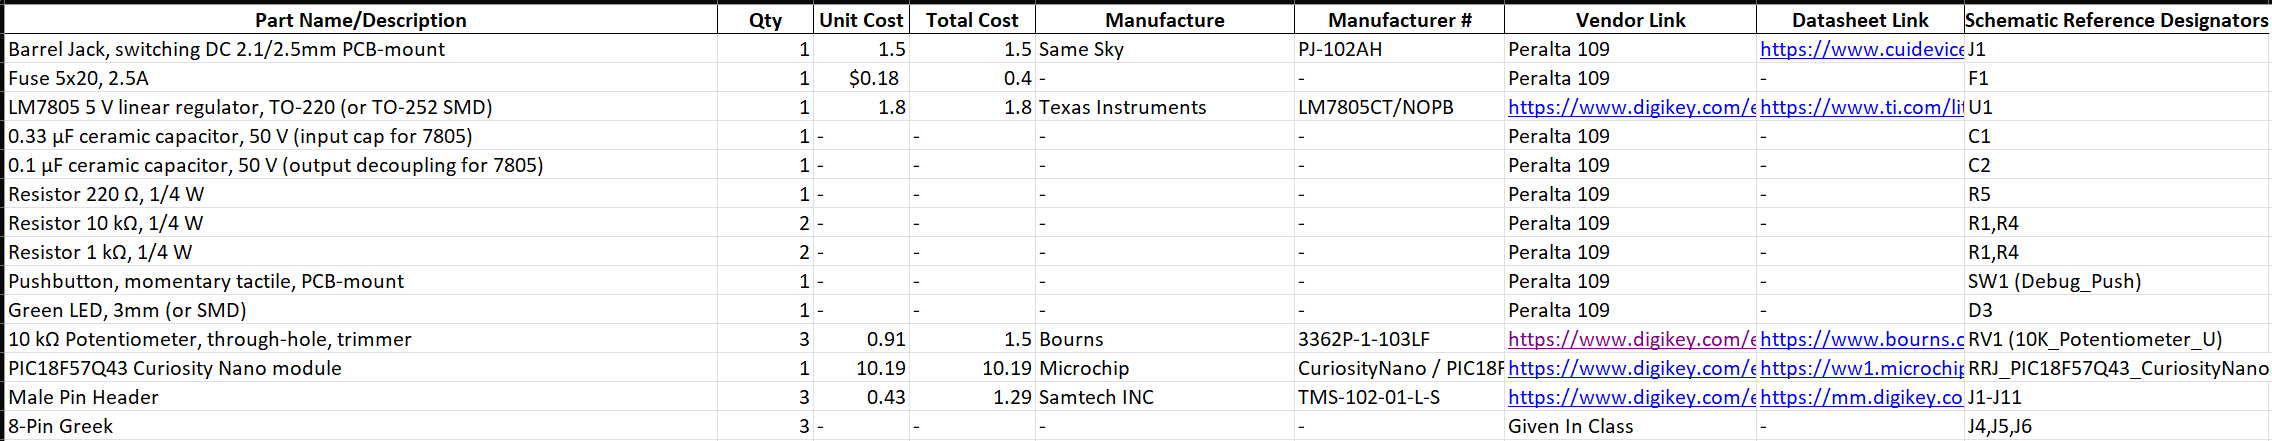
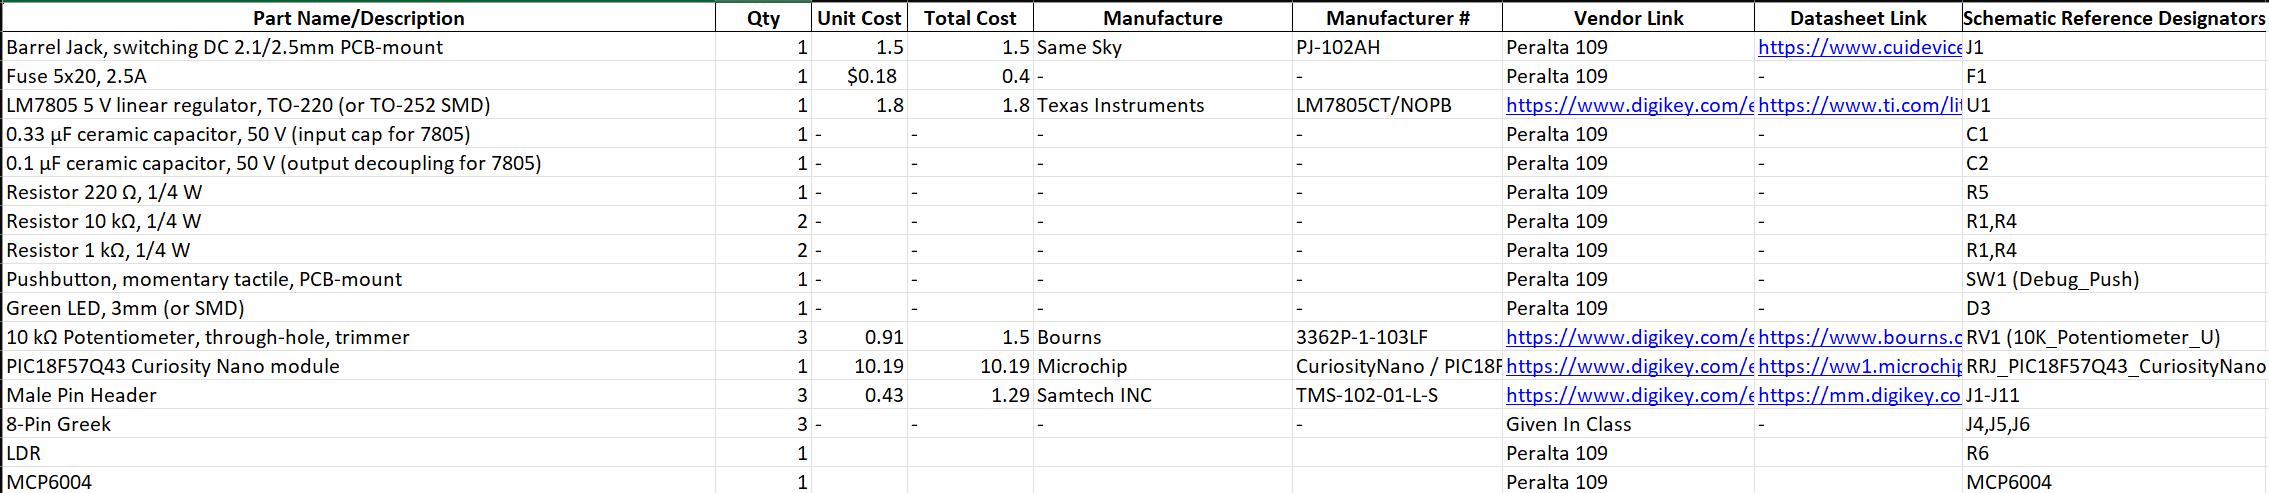
bill of matrerials

Changed region(s): [[0.0, 0.0, 1.0, 1.0], [0.4319, 0.8844, 0.5245, 0.9433], [0.3085, 0.4422, 0.4319, 0.4717]]

diff --git a/docs/03-BOM/BOM.md b/docs/03-BOM/BOM.md
@@ -6,9 +6,7 @@ tags:
 ---
 
 ## Overview
-ChatGPT said:
-
-This bill of materials lists components for a PIC18F57Q43-based embedded system, including power regulation, user interface, and connectivity parts. Key items include the LM7805 voltage regulator, resistors, capacitors, pushbutton, LED, potentiometers, and headers. The components, mainly sourced from Digi-Key and Peralta 109, ensure reliable power and functionality for the microcontroller module.
+Below is the bill of materials for my PCB design, which includes the power regulation stage, user-interface components, connectors, and the PIC18F57Q43 Curiosity Nano module used as the system’s microcontroller. Many of the passive components can be sourced directly from Peralta 109, while specialty items such as the voltage regulator, potentiometer, and headers are ordered through Digi-Key. Pin headers and the onboard pushbutton are included to support debugging and flexible testing during development. Most parts carry minimal or no cost, with the Curiosity Nano and a few ordered components making up the majority of expenses. Even when accounting for extra units of key parts for testing, the overall cost remains well within the project’s budget requirements.
 
 ## Bill of Materials Example (as Image)
 ![](BOM-Screenshot.png){style width: "2000"}
